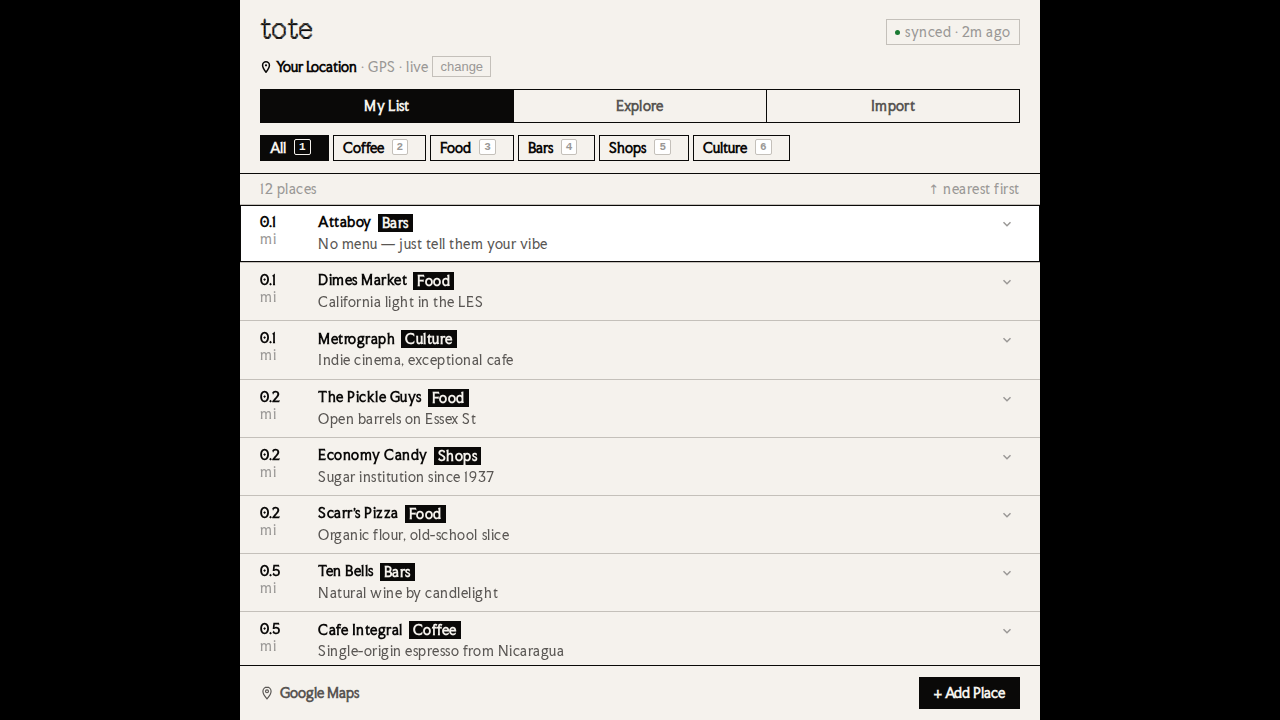
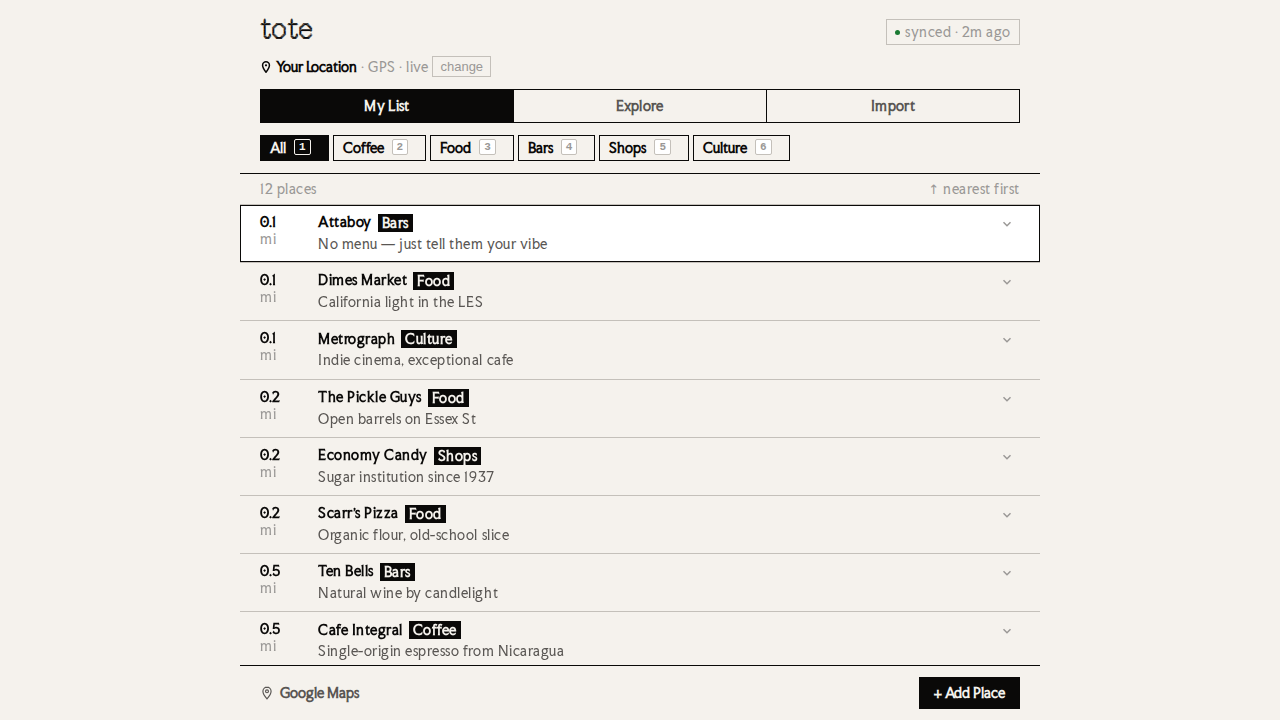
Fix: set body background to theme variable for desktop views
- Changed `background: #000;` to `background: var(--bg);` on `html` and `body`.
- Removed unnecessary `html { background: #000; }` from the dark mode media query, as `var(--bg)` correctly resolves to the dark theme color (`#111009`) automatically.
- This prevents the application from appearing as a constrained "tablet view" (an 800px column centered in a black void) on wide monitors, allowing the theme to extend seamlessly across the entire browser viewport.

diff --git a/index.html b/index.html
@@ -64,19 +64,19 @@
         --act-fg:     #111009;
         --green:      #3DBE6E;
       }
-      html { background: #000; }
+      html { background: var(--bg); }
     }
 
     /* ══════════════════════════════════════════
        BASE
     ══════════════════════════════════════════ */
-    html { height: 100%; background: #000; }
+    html { height: 100%; background: var(--bg); }
 
     body {
       font-family: var(--sans);
       font-size: 13px;
       letter-spacing: 0.04em;
-      background: #000;
+      background: var(--bg);
       color: var(--text);
       overscroll-behavior: none;
       display: flex;
@@ -924,9 +924,6 @@
     .bottom {
       position: fixed;
       bottom: 0;
-      left: 0;
-      right: 0;
-      margin: 0 auto;
       width: 100%;
       max-width: 800px;
       background: var(--bg);

diff --git a/test_bg.py b/test_bg.py
@@ -1,0 +1,13 @@
+from playwright.sync_api import sync_playwright
+
+def run():
+    with sync_playwright() as p:
+        browser = p.chromium.launch()
+        context = browser.new_context(viewport={'width': 1200, 'height': 800})
+        page = context.new_page()
+        page.goto('http://localhost:3000')
+        page.wait_for_timeout(2000)
+        page.screenshot(path='screenshot_bg_2.png', full_page=True)
+        browser.close()
+
+run()
